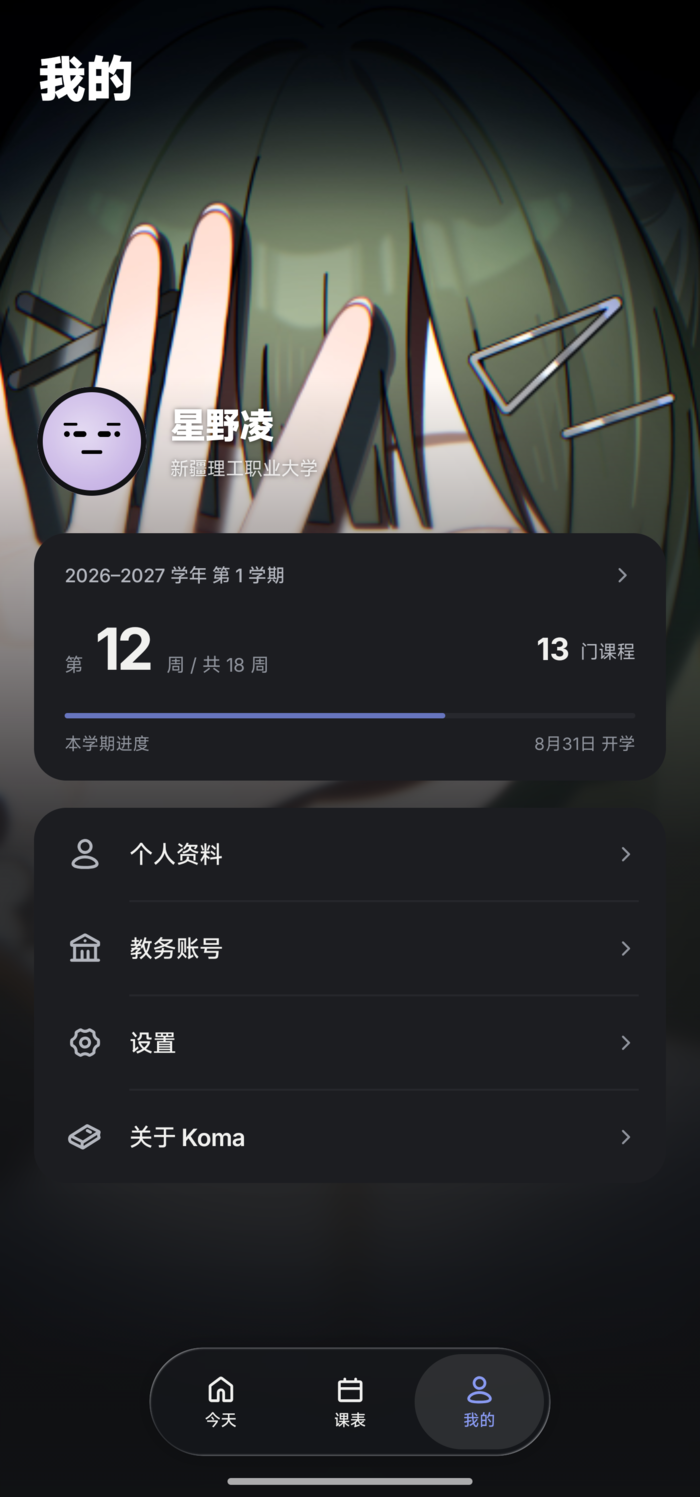
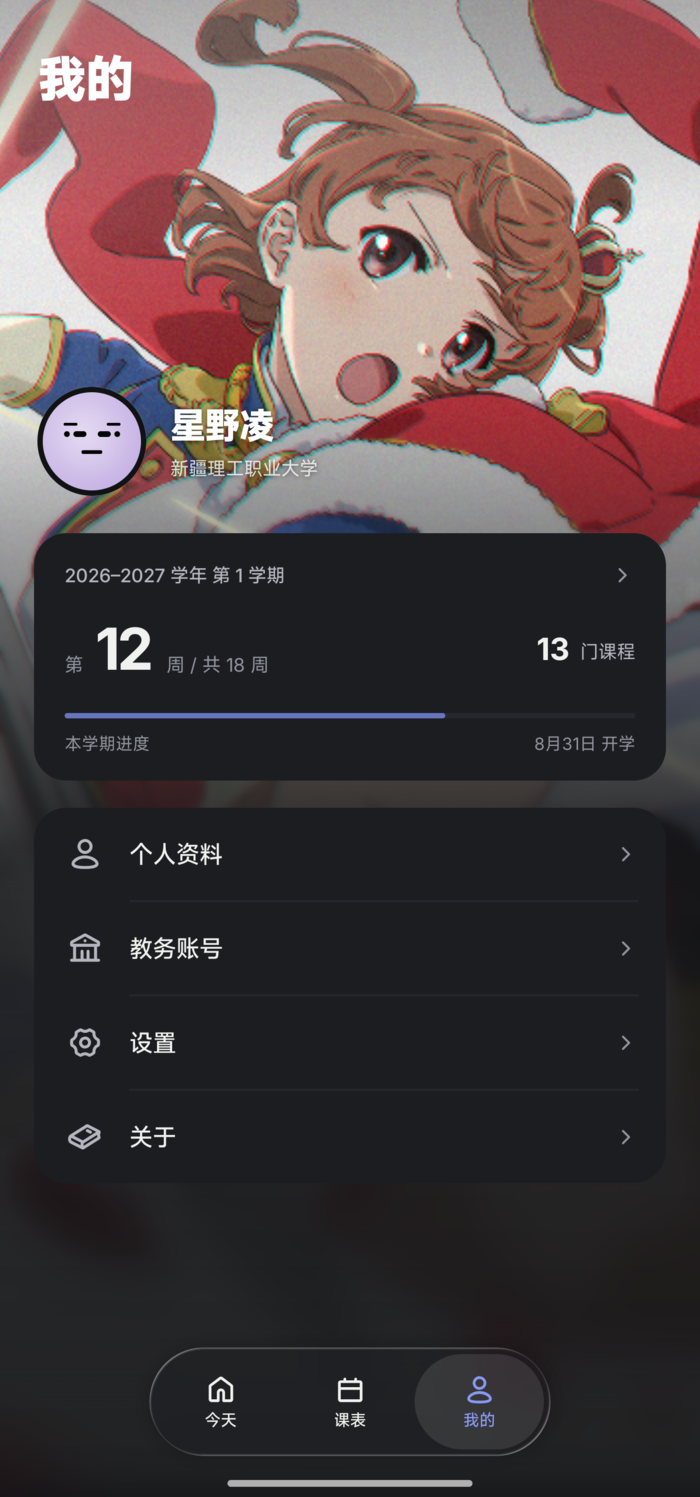
docs: 精简 README 表述并更新我的页截图
[Purpose]

- README 章节冗长且与正文重复（「为什么用 Koma」与后续功能说明、隐私段与设置说明相互重叠），截图里的「我的」页也已过时；收敛结构与措辞，并同步截图。

[Changes]

- README.md:
  - 章节重组为「核心体验 → 下载与安装 → 导入课表（三种方式）→ 日常使用（今天/课表/课程详情/我的）→ 常见问题 → 隐私与权限 → 自己编译 → 反馈与协议」。
  - 删除重复的过渡分隔线与重复描述，安装包表格、导入步骤、FAQ 改为更短的单句说明。
  - 截图 alt 文案同步为「整周节次视图」「我的：学期进度与设置」等当前界面用语。
- docs/screenshots/profile.png:
  - 更新「我的」页截图（700×1497），与当前界面一致。

[Impact]

- 仅文档与图片；README 中提到的入口名称与界面文案保持一致，后续改文案需同步维护。

diff --git a/README.md b/README.md
@@ -7,165 +7,133 @@
 <p align="center"><strong>列车终将开往下一站，那舞台呢？我们呢？</strong></p>
 
 <p align="center">
-  干净、克制、离线优先的大学课表应用。<br>
-  看清今天每一节课、课间有多久空档、下一节去哪间教室。
+  大学课表应用。<br>
+  看今天上什么课、中间空多久、下一节去哪间教室。
 </p>
 
 <table>
   <tr>
     <td><a href="docs/screenshots/home.png"><img src="docs/screenshots/home.png" width="200" alt="今天：课程时间线"></a></td>
-    <td><a href="docs/screenshots/week.png"><img src="docs/screenshots/week.png" width="200" alt="课表：整周网格视图"></a></td>
+    <td><a href="docs/screenshots/week.png"><img src="docs/screenshots/week.png" width="200" alt="课表：整周节次视图"></a></td>
     <td><a href="docs/screenshots/calendar.png"><img src="docs/screenshots/calendar.png" width="200" alt="月历：周次与排课概览"></a></td>
-    <td><a href="docs/screenshots/profile.png"><img src="docs/screenshots/profile.png" width="200" alt="我的：学期进度与账号设置"></a></td>
+    <td><a href="docs/screenshots/profile.png"><img src="docs/screenshots/profile.png" width="200" alt="我的：学期进度与设置"></a></td>
   </tr>
   <tr>
-    <td align="center"><strong>今天</strong> · 日程时间轴</td>
+    <td align="center"><strong>今天</strong> · 日程时间线</td>
     <td align="center"><strong>课表</strong> · 整周一屏</td>
-    <td align="center"><strong>月历</strong> · 快速跳周</td>
-    <td align="center"><strong>我的</strong> · 学期与偏好</td>
+    <td align="center"><strong>月历</strong> · 跨周跳转</td>
+    <td align="center"><strong>我的</strong> · 学期与设置</td>
   </tr>
 </table>
 
----
+## 核心体验
 
-## 为什么用 Koma？
-
-- **三种方式导入课表**：支持学校教务系统直连同步、粘贴或选择 JSON 离线课表，也可以让 AI 看课表截图自动整理导入。
-- **本机自动识别验证码**：内置离线 OCR 模型，登录教务时在手机本地自动算完验证码，图片不上传任何服务器。
-- **日程与周表双视图**：「今天」把课程与课间空档串成连续时间线；「课表」一屏排下整周节次，不用上下翻找。
-- **自由调课与双层备注**：在周课表里点开任意课程，都能记课程简介或单周备忘、标记单周/全学期停课、单次调课改教室，或者删除课程。
-- **同步不丢手动修改**：每天首次打开可自动同步教务最新排课；遇到你手动调过或记过备注的课，会保留你的修改或弹出冲突对照让你选。
-- **纯粹、无打扰**：无广告、无第三方统计、无后台常驻推销，断网也能随时看课表。
-
----
+- **三种方式导入课表**：支持教务系统直连导入、选择或粘贴 JSON 离线课表，也可以让 AI 看课表截图自动整理导入。
+- **本机自动识别验证码**：内置离线 OCR 模型，登录教务时在本机自动算完验证码，图片不上传服务器。
+- **今天与课表双视图**：「今天」把一天的课程和课间空档连成时间线；「课表」一屏排下整周节次，不用上下滚动。
+- **调课、停课与双层备注**：在周课表里点开任意课程，可记录全学期课程简介或单周备注、标记单周或全学期停课、单次调课换教室，或删除课程。
+- **自动更新不丢手动修改**：每天首次打开应用可自动同步教务排课；你写过的备注、调过的课、设过的停课优先保留，遇到排课冲突时弹窗对照选择。
+- **安静无打扰**：课表存放在本机，断网可查；无广告、无第三方统计。
 
 ## 下载与安装
 
-- **系统要求**：Android 10（API 29）及以上，应用包名 `moe.tnxg.koma`。
-- **获取安装包**：前往 [GitHub Releases](https://github.com/TNXG/koma/releases) 下载最新版本 APK。
+支持 **Android 10 及以上**系统（包名 `moe.tnxg.koma`），前往 [GitHub Releases](https://github.com/TNXG/koma/releases) 下载对应架构的安装包：
 
-每个版本提供按芯片架构拆分的安装包和通用包：
-
-| 安装包文件名 | 适用设备 | 说明 |
+| 安装包 | 适用设备 | 说明 |
 | --- | --- | --- |
 | `koma-<版本>-arm64-v8a.apk` | **绝大多数主流手机**（推荐） | 64 位 ARM 架构，体积最小 |
-| `koma-<版本>-universal.apk` | 不确定型号时的稳妥选择 | 包含全部架构支持，体积稍大 |
-| `koma-<版本>-armeabi-v7a.apk` | 较老的 32 位手机 | 32 位 ARM 架构 |
-| `koma-<版本>-x86_64.apk` / `x86.apk` | 电脑模拟器、平板等 | x86 架构设备 |
+| `koma-<版本>-universal.apk` | 不确定架构时选择 | 包含全部架构支持 |
+| `koma-<版本>-armeabi-v7a.apk` | 较早的 32 位手机 | 32 位 ARM 架构 |
+| `koma-<版本>-x86_64.apk` / `x86.apk` | 电脑模拟器、x86 平板 | x86 架构设备 |
 
-> 旧版（WebView / Capacitor 版本）用户直接覆盖安装或首次打开新版时，应用会自动迁入原有课表与开学日期，无需重新配置。
+> 曾使用过旧版（WebView / Capacitor 版本）的用户，覆盖安装或首次打开时会自动迁入原有课表和开学时间。
 
----
+## 导入课表
 
-## 导入你的第一份课表
+首次打开可在欢迎页选择 **「开始使用」**、**「导入离线课表」** 或 **「暂不登录」**；进入主页后也可以随时在 **「我的 → 教务账号」** 中导入或切换。
 
-第一次打开 Koma 时，你可以通过以下任意一种方式开始：
+### 1. 登录教务导入
 
-### 方式一：登录教务系统直连（已接入学校）
+1. 点击「开始使用」，在 **「选择学校」** 页选择你的学校（目前已接入 **新疆理工职业大学**）。
+2. 输入**学号**和**统一身份认证密码**。验证码默认在本机自动识别，若连续识别未通过可手动输入算式得数。
+3. 在 **「开学时间」** 页确认第 1 周周一日期，点击「进入课表」。
 
-1. 在欢迎页点击 **「开始使用」**，搜索并选择你的学校（目前已接入 **新疆理工职业大学**）。
-2. 输入**学号**和**统一身份认证密码**。
-3. 应用会在本机自动识别验证码并抓取整学期课表（若连续 3 次自动识别未通过，会切换为手动输入算式得数）。
-4. 核对或修改**第 1 教学周的周一日期**，点击「进入课表」即可。
+开启「保存密码」后，下次更新课表或登录过期时会自动重登；退出登录或关闭开关重新登录会清除已保存的密码。
 
-开启「保存密码」后，下次同步或会话过期时会自动重登；你可以随时在「我的 → 教务账号」里退出并清除保存的密码。
+### 2. 用 AI 识图导入（不限学校）
 
-### 方式二：用 AI 识图导入（适合任何学校）
+如果学校暂未接入直连，或手头只有课表截图：
 
-如果你的学校暂未接入教务直连，或者手头只有课表截图/教务网页截图，可以让 AI 帮你转成 Koma 课表：
-
-1. 在欢迎页点击 **「导入离线课表」**（或进入「我的 → 教务账号 → 导入课表」）。
+1. 打开 **「导入离线课表」**（欢迎页底部，或「我的 → 教务账号 → 导入离线课表」）。
 2. 点击 **「用 AI 识图导入 → 复制提示词」**。
-3. 把复制好的提示词和你的课表截图一起发给支持看图的 AI（如 ChatGPT、豆包、Kimi、通义千问等）。
-   > **隐私提醒**：发送截图前，请先涂掉截图里的姓名、学号等个人信息。若截图中缺少开学日期、总周数或具体上下课钟点，AI 会先向你询问补齐。
-4. 将 AI 回复的 JSON 全文复制并粘贴回 Koma，点击 **「预览课表」**，核对学期名称、第 1 周周一、总周数与课程门数后，点击 **「确认导入」**。
+3. 将提示词和课表截图发给支持看图的 AI（如 ChatGPT、豆包、Kimi、通义千问）。
+   - 发送截图前请先遮住姓名、学号等个人信息。
+   - 若截图中缺少开学日期、总周数或每节课起止时间，AI 会先向你询问补齐。
+4. 把 AI 回复的内容粘贴回输入框，点击 **「预览课表」** 核对学期、第 1 周周一、总周数与课程门数，再点击 **「确认导入」**。
 
-### 方式三：导入 JSON 文件或先随便看看
+### 3. JSON 文件导入与免登录浏览
 
-- **文件 / 文本导入**：在「导入课表」页可以直接点击「选择文件」读取 `.json` 课表文件，或粘贴已有的 Koma JSON v1 文本（应用内附带完整字段说明与示例）。
-- **暂不登录**：在欢迎页点击「暂不登录」可直接进入空课表浏览界面与设置，你的选择会保存在本机，之后随时能去「我的」导入。
+- **JSON 文件 / 文本**：在「导入离线课表」页可点击「选择文件」读取 `.json` 文件，或直接粘贴 Koma JSON v1 文本。
+- **暂不登录**：点击欢迎页「暂不登录」可先进入空课表浏览界面与设置，下次启动不会重复要求登录。
 
----
+## 日常使用
 
-## 日常使用指南
+### 今天
 
-### 1. 今天（日程时间轴）
+- **课程时间线**：按上下课时间排列当天及后续日程，标明节次、教室和教师。正在上的课显示剩余时间，下一节课提示开课时间。
+- **课间空档**：两节课间隔 40 分钟以上时，直接标出「空闲 X 小时 X 分钟」；无课日、周末和跨周自动分隔。
+- **右侧日期岛**：屏幕右边缘常驻日期把手。轻点或左滑展开纵向日期条，滑动可快速查看任意日期的课，点「今」回到今天（6 秒无操作自动收起）；点顶部的月历图标直接打开月历。
 
-把一整天的安排排成清晰的时间线：
+### 课表
 
-- **看清节奏**：每张课程卡片标明上下课钟点、节次、教室和授课教师；正在上的课会高亮显示进度，下一节课会醒目标出「下一节 · 开课时间」。
-- **课间空档不用算**：两节课之间相隔 40 分钟以上时，时间轴会直接标出「空闲 X 小时 X 分钟」；周末、无课日和跨周也会自然分隔。
-- **右侧悬浮日期岛**：屏幕右边缘常驻一枚小巧的日期把手。
-  - **轻点或左滑把手**：展开纵向日期条，上下滑动即可快速预览其他日期的日程，点「今」一键回到今天（松手 6 秒无操作自动收起）。
-  - **点把手底部月历图标**：随时呼出底部月历，按月跨周跳转。
+- **整周一屏**：全部节次自适应屏幕高度，不用上下滚动；左右滑动切换教学周，正在上课的时段会画出当前时间线。
+- **月历跳周**：点击左上角「第 X 周」展开底部连续月历，可查看每天有几节课并点选跳转；浏览非本周时，点击底部 **「回本周」** 立即归位。
+- **回时间线**：点击表头上方的「周一 ~ 周日」，切回「今天」时间线并定位到当天。
 
-### 2. 课表（整周节次视图）
+### 课程详情、备注与调课
 
-- **一屏看全周**：整周节次自适应屏幕高度，**无需上下滚动**就能看清全天排课；左右滑动即可翻看前后的教学周，当前正在上的时段会画出实时时间线。
-- **快速跳周与回本周**：点击左上角「第 X 周」打开连续月历，每天有几节课一目了然，点选任意一行即可切到对应周。浏览其他周时，点击底部悬浮的 **「回本周」** 立即归位。
-- **点星期回时间线**：点击表头上方的「周一 ~ 周日」，会直接切回「今天」时间轴并定位到那一天。
+在「课表」页点击任意课程，打开底部课程详情抽屉：
 
-### 3. 备注、调课、停课与删除
+- **课程备注**：分为全学期共享的 **「课程简介」**（如考核要求、教材）和仅当周生效的 **「本周备注」**（如随堂测验、交作业）。
+- **调课**：将当前这一周的课移动到指定周次、星期、节次和地点，不影响其他周次。
+- **停课 / 恢复**：支持「仅本周停课」或「全学期停课」，停课周次不发送课前提醒，随时可恢复。
+- **删除**：支持「删除本节（仅当周）」或「删除本课（全学期）」。所有修改仅保存在本机，不会改动学校教务系统。
+- **相关课程**：同一时段若有单双周或重叠课程，可在抽屉内展开「相关课程」切换查看。
 
-在「课表」视图中**点击任意一门课**，会从底部升起课程详情抽屉：
+### 我的
 
-- **双层课程备注**：
-  - **课程简介**：全学期所有周次共享（适合记考核方式、教材、平时分占比）。
-  - **本周备注**：仅对当前教学周生效（适合记随堂测验、交作业、带实验器材）。
-- **单次调课**：临时换了时间或教室？点击「调课」即可把当前这一周的课移动到指定周次、星期、节次和地点，不影响其他周次。
-- **停课与恢复**：支持「仅本周停课」或「全学期停课」，停课后不再触发该节的课前提醒，随时可以恢复。
-- **删除课程**：支持「删除本节（仅移除当周这一次）」或「删除本课（移除全学期排课）」。所有改动均保存在本机，不会修改学校教务系统。
-- **重叠课程切换**：同一时段若有单双周或冲突排课，抽屉内会展开「相关课程」列表，点击即可切换查看。
-
-### 4. 自动同步与冲突保护
-
-通过教务系统登录的课表，可以在 **「我的 → 教务账号」** 中管理更新：
-
-- **每天自动更新**：开启「自动更新」后，每天首次打开应用会自动在后台检查教务课表变动；也可以随时点击「立即更新」。
-- **手动修改优先保留**：你写过的备注、调过的课、设过的停课和删掉的课，**绝不会被自动同步静默覆盖**。当教务端排课发生变动并与你的本地修改冲突时，会弹出「课表同步冲突」对照卡片，由你逐条决定保留本机修改还是采用教务新排课。
-
-### 5. 个性化设置与课前提醒
-
-在 **「我的」** 页面中，你可以按自己的习惯定制 Koma：
-
-- **个人资料**：自定义称呼；头像支持自动生成几何精灵头像（也可换一个）或从相册选图；主页背景封面默认每三天自动换一张插画，也可从相册自定义。
-- **课表显示**：自由开关「显示周末」「显示非本周课程」，支持紧凑 / 标准 / 宽松三种排版密度，设置页顶部实时预览效果。
-- **课程卡片**：可开关上课地点、授课教师展示，或在「课程彩色标识」与「中性卡片」之间切换。
-- **主题与外观**：支持跟随系统 / 浅色 / 深色模式，提供**鸢尾蓝、晴空蓝、松石绿、蔷薇粉、琥珀金** 5 种强调色、4 档界面字号，以及「减少动态效果」开关。
-- **首页与导航**：可设置每次启动应用时默认打开「今天」「课表」还是「我的」。
-- **课前提醒**：开启后可在上课前（准时，或提前 5 / 10 / 15 / 30 分钟）发送系统通知提醒你去哪间教室上课。
-
----
+- **学期与课表**：点击顶部的学期进度卡片，查看当前周次进度或修改 **「开学日期」**。
+- **个人资料**：修改称呼；头像可自动生成或从相册选择；主页背景封面默认每三天更换一张随机插画，也可从相册自定义。
+- **教务账号**：查看登录与同步状态、开关每天首次启动时的 **「自动更新」**、立即同步、重新导入或导入离线课表，也可退出登录并清除本机课表。
+- **设置**：
+  - **课表显示**：开关显示周末、显示非本周课程，切换紧凑 / 标准 / 宽松排版密度（顶部实时预览）。
+  - **课程卡片**：开关上课地点、授课教师与课程彩色标识（顶部实时预览）。
+  - **主题与强调色**：跟随系统 / 浅色 / 深色模式，5 种强调色（鸢尾蓝、晴空蓝、松石绿、蔷薇粉、琥珀金），4 档界面字号，以及减少动态效果。
+  - **首页与导航**：设置启动后默认打开「今天」「课表」或「我的」。
+  - **课前提醒**：开启后按设定提前时间（准时，或提前 5 / 10 / 15 / 30 分钟）推送系统通知。
+- **关于**：查看版本、开源许可、隐私与权限说明及问题反馈入口。
 
 ## 常见问题
 
-| 遇到的情况 | 解决办法 |
+| 遇到的情况 | 怎么办 |
 | --- | --- |
-| **显示的周次和学校实际周次对不上** | 进入「我的 → 学期与课表 → 开学日期」，将第 1 周周一改为学校校历对应的周一即可。 |
-| **老师临时调课、换教室或停课了** | 在「课表」页点开那节课，直接用「调课」或「停课」修改本机排课；如果教务系统已经更新，也可去「我的 → 教务账号」点「立即更新」或「重新导入课表」。 |
-| **验证码自动识别没通过** | 自动识别连续尝试失败后会切换为手动输入，看图填算式结果即可；看不清可点击验证码图片刷新。 |
-| **登录提示账号被暂时锁定** | 统一身份认证密码连续输错会触发学校端临时锁定，请等待 10–15 分钟后再试，或先在学校统一身份认证网页端登录解锁。 |
-| **某些节次只显示第几节、没有具体钟点** | 导入的课表里未提供该节次的起止时间，Koma 不会自行猜测钟点；若用 JSON 导入，请在 `timeGrid` 中补全学校作息时间。 |
-| **想换个账号或清空所有排课** | 进入「我的 → 教务账号」，点击底部的「退出登录并清除课表」（离线课表为「清除本地课表并返回欢迎页」）。 |
+| 周次和学校实际周次对不上 | 到「我的 → 学期与课表 → 开学日期」修改第 1 周周一日期 |
+| 老师临时调课或停课 | 在「课表」页点开该课程，使用「调课」或「停课」；若教务已更新，可到「我的 → 教务账号」点「立即更新」 |
+| 验证码识别未通过 | 连续自动识别未通过后会切换为手动输入，也可点验证码图片换一张 |
+| 登录提示账号被暂时锁定 | 密码连续输错会触发学校端临时锁定，等待 10–15 分钟再试，或先在学校统一身份认证网页登录解锁 |
+| 某些节次不显示上下课钟点 | 课表中未提供该节次的时间，应用不会自行猜测；JSON 导入请在 `timeGrid` 中填写真实作息 |
+| 想换账号或清空课表 | 到「我的 → 教务账号」点击底部的「退出登录并清除课表」 |
 
----
+## 隐私与权限
 
-## 隐私与安全
+- **数据留在本机**：课表、备注、调课记录与设置均保存在本机。
+- **密码硬件加密**：保存的教务密码在 Android 上使用系统 Keystore 加密，在 HarmonyOS 上使用系统 Asset Store 加密。
+- **验证码本地识别**：验证码由内置的 ONNX 模型在本机离线识别，图片不上传至任何识别服务。
+- **请求透明**：仅在登录/同步教务时连接学校域名（如 `xjvut.edu.cn`），以及在使用随机封面时请求图源（`api-space.tnxg.top`）。无广告，无第三方统计。
 
-Koma 把你的账号与个人数据完全留在你自己的设备上：
+## 自己编译
 
-- **本地存储**：所有课表数据、备注、调课记录、自定义头像与偏好设置仅保存在本机。
-- **凭据硬件级加密**：选择「保存密码」时，账号密码在 Android 上通过系统 **Keystore** 加密存储（在 HarmonyOS 实验端通过系统 **Asset Store** 加密，仅设备解锁时可访问且不跨设备同步）。
-- **离线验证码识别**：登录验证码由打包在应用内的本地 ONNX 模型离线推理识别，验证码图片不会上传到任何第三方识别服务。
-- **透明的网络请求**：除连接你所选学校的教务系统（如 `xjvut.edu.cn`）以及拉取随机封面/维护者头像（`api-space.tnxg.top`）外，不发起任何其他网络请求。无广告 SDK，无第三方统计与遥测。
-
-你随时可以在应用内 **「我的 → 关于 Koma → 隐私与权限」** 查看当前设备的网络请求域、本机存储状态与系统权限说明。
-
----
-
-## 从源码自己打包
-
-如果你希望自己编译安装，只需先安装 [mise](https://mise.jdx.dev)，然后在仓库根目录依次执行：
+安装 [mise](https://mise.jdx.dev) 后，在仓库根目录执行：
 
 ```sh
 mise trust
@@ -174,16 +142,10 @@ mise run setup
 mise run build
 ```
 
-Windows（原生 PowerShell）、macOS、Linux 使用同一套命令。`mise run setup` 会自动在项目目录内准备好固定版本的 JDK、Gradle、Android SDK 并校验本地 OCR 模型。
+Windows（PowerShell）、macOS、Linux 使用同一套命令。生成的安装包位于 `app/build/outputs/apk/debug/koma-<版本>-<架构>.apk`；连接手机后可直接运行 `mise run run` 安装并启动。HarmonyOS 实验工程（`harmonySpike/`）及接入新学校教务的步骤见 **[开发说明](docs/DEVELOPMENT.md)**。
 
-- 编译生成的安装包位于：`app/build/outputs/apk/debug/app-debug.apk`
-- 若手机已通过 USB 连接电脑并开启调试，可直接运行 `mise run run` 一键安装并启动。
-- 仓库内另附独立的 HarmonyOS 实验工程（`harmonySpike/`），架构细节、构建方式与新学校教务接入指南请参阅 **[开发说明](docs/DEVELOPMENT.md)**。
+## 反馈与协议
 
----
-
-## 反馈与开源
-
-- **问题反馈与建议**：遇到 Bug 或希望支持你的学校？欢迎提交 [GitHub Issues](https://github.com/TNXG/koma/issues)。
-- **代码仓库**：源码同时托管在 [GitHub (TNXG/koma)](https://github.com/TNXG/koma) 与 [GitCode (gxdev_lab/koma)](https://gitcode.com/gxdev_lab/koma)，两边保持同步。
-- **开源协议**：本项目遵循 [AGPL-3.0](LICENSE) 协议开源，版权归 GengXing Developer Lab & TNXG 所有。
+- **反馈问题**：请至 [GitHub Issues](https://github.com/TNXG/koma/issues) 提交。
+- **源码仓库**：[GitHub (TNXG/koma)](https://github.com/TNXG/koma) · [GitCode (gxdev_lab/koma)](https://gitcode.com/gxdev_lab/koma)
+- **开源协议**：遵循 [AGPL-3.0](LICENSE) 协议，版权归 GengXing Developer Lab & TNXG 所有。
